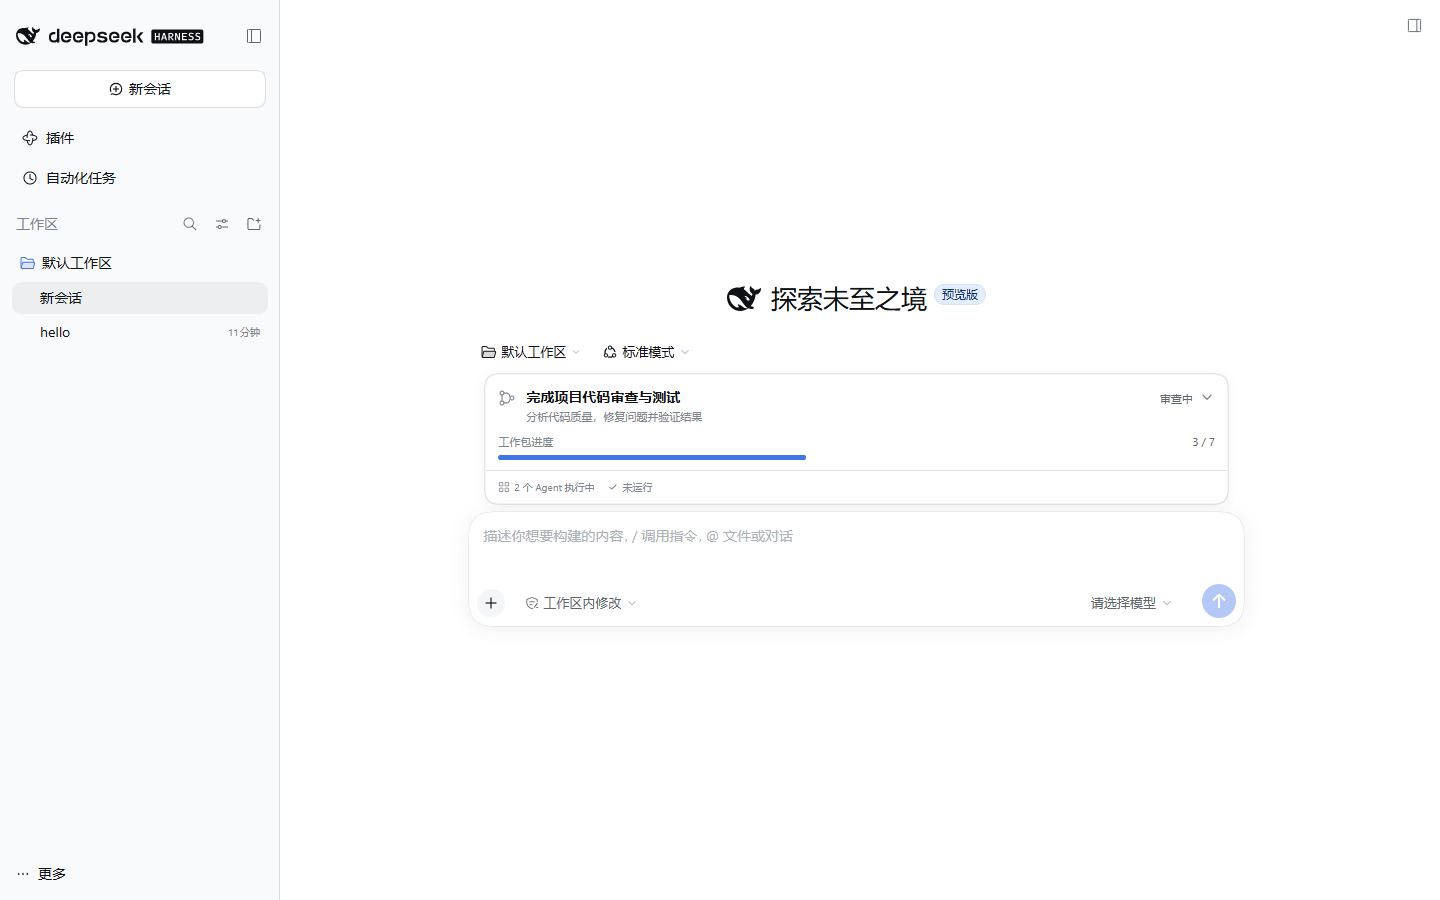
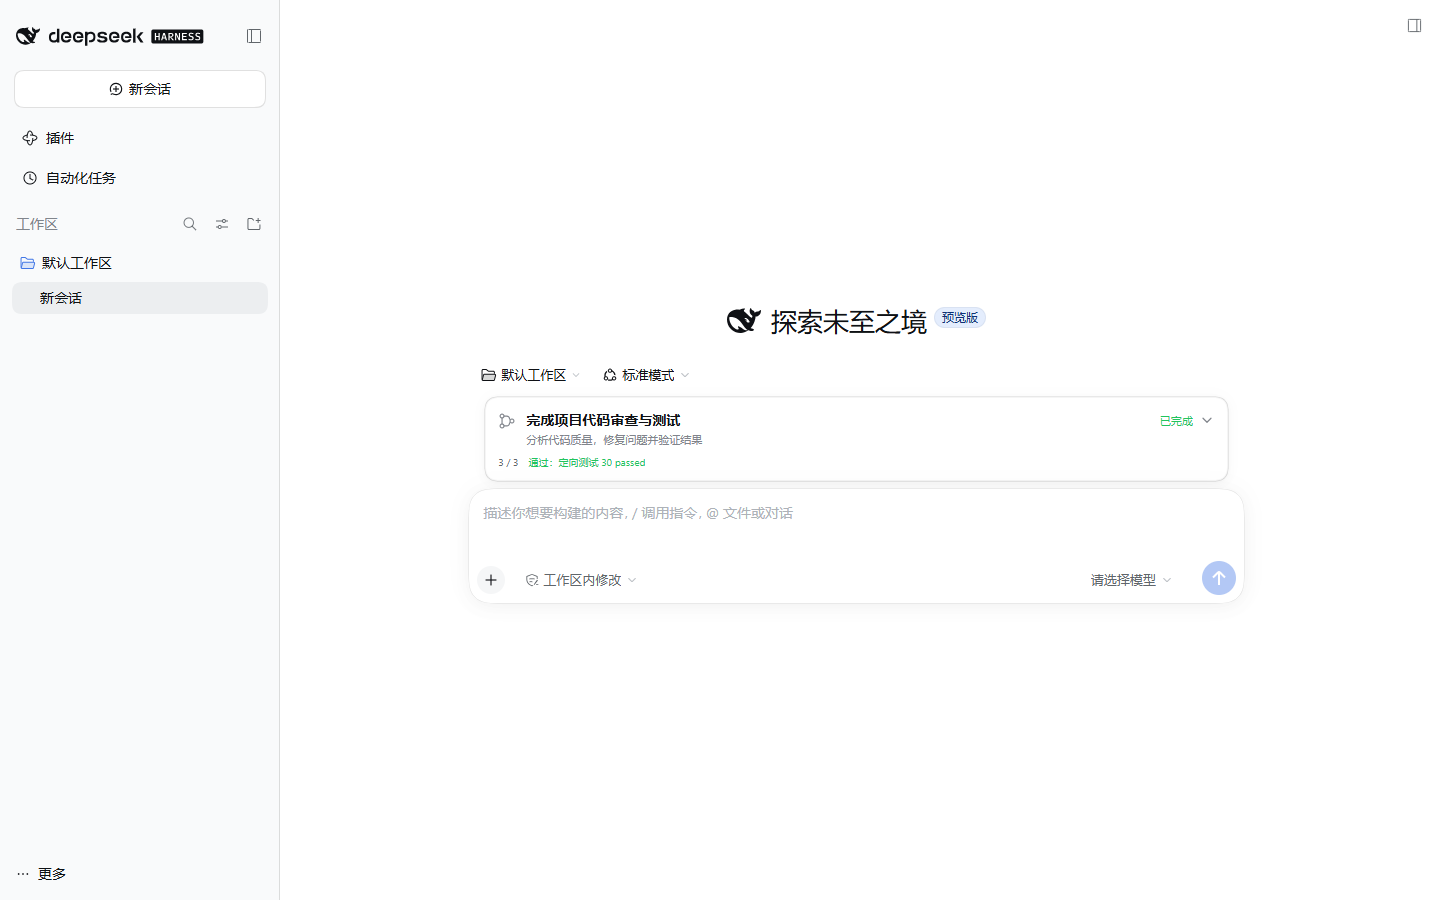
Separate goal, todo, and status card layers

diff --git a/lib/client.js b/lib/client.js
@@ -93,6 +93,10 @@ window.__ModuleLoader__.load({
 .pls-footerItem{display:inline-flex;align-items:center;gap:4px;min-width:0}
 .pls-footerSpacer{flex:1}
 .pls-footerIcon{flex:none;color:var(--dsw-alias-label-tertiary)}
+.pls-card-done .pls-head{padding-bottom:6px}
+.pls-doneLine{display:flex;align-items:center;gap:10px;flex-wrap:wrap;padding:0 12px 10px;color:var(--dsw-alias-label-tertiary);font-size:10px;line-height:16px}
+.pls-doneProgress{color:var(--dsw-alias-label-secondary);font-variant-numeric:tabular-nums}
+.pls-doneBlocked{color:var(--dsw-alias-state-error-primary)}
 .pls-empty{color:var(--dsw-alias-label-tertiary);font-size:10px;line-height:16px;margin:0}
 @media (max-width:720px){.pls-card .pls-summary{display:none}.pls-card .pls-package{padding:7px}}
 .pls-spin{animation:pls-spin .9s linear infinite;transform-origin:center}
@@ -159,6 +163,7 @@ window.__ModuleLoader__.load({
       allowListFailed:
         "Settings saved, but the Subagent allow-list could not be updated; add the route in Subagent settings.",
       statusEyebrow: "PROJECT STATUS",
+      statusOverview: "Project overview",
       statusProgress: "Work package progress",
       statusPackages: "Work packages",
       statusShowAll: "Show all {count}",
@@ -235,6 +240,7 @@ window.__ModuleLoader__.load({
       saved: "已保存。",
       allowListFailed: "设置已保存，但 Subagent 允许列表未能更新；请在 Subagent 设置中添加该路由。",
       statusEyebrow: "项目状态",
+      statusOverview: "执行概览",
       statusProgress: "工作包进度",
       statusPackages: "工作包",
       statusShowAll: "查看全部 {count} 项",
@@ -558,6 +564,7 @@ window.__ModuleLoader__.load({
 
     function StatusDock({ useProjection, t }) {
       const status = useProjection("projectLeadStatus");
+      const goalProjection = useProjection("goal");
       const [expanded, setExpanded] = useState(false);
       const [showAll, setShowAll] = useState(false);
       const [now, setNow] = useState(() => Date.now());
@@ -580,19 +587,46 @@ window.__ModuleLoader__.load({
       const phase = ["planning", "executing", "reviewing", "blocked", "done"].includes(status.phase)
         ? status.phase
         : "planning";
-      const goal = typeof status.goal === "string" && status.goal.trim().length > 0
+      const rawGoal = typeof status.goal === "string" && status.goal.trim().length > 0
         ? status.goal
-        : t("statusEyebrow");
+        : "";
       const summary = typeof status.summary === "string" ? status.summary : "";
+      const nativeGoal = goalProjection?.goal?.phase === "active" ? goalProjection.goal : null;
+      const isDone = phase === "done";
+      const title = nativeGoal
+        ? (summary || t("statusOverview"))
+        : (rawGoal || summary || t("statusOverview"));
+      const subtitle = !nativeGoal && rawGoal && summary ? summary : "";
       const verification = typeof status.verification === "string" ? status.verification : "";
       const next = typeof status.next === "string" ? status.next : "";
       const blockers = typeof status.blockers === "string" ? status.blockers : "";
       const activeAgents = Number.isFinite(status.activeAgents) ? status.activeAgents : 0;
       const shownPackages = showAll ? workPackages : workPackages.slice(0, 3);
-      const updated = updatedLabel(status.updatedAt, now, t);
+      const updated = isDone ? "" : updatedLabel(status.updatedAt, now, t);
+      const showFooterVerification = !expanded && !isDone;
+      const footerItems = [];
+      if (activeAgents > 0) {
+        footerItems.push(h("span", { key: "agents", className: "pls-footerItem pls-footerIcon" }, [
+          h(GridGlyph),
+          t("statusAgents", { count: activeAgents })
+        ]));
+      }
+      if (showFooterVerification) {
+        footerItems.push(h("span", { key: "verification", className: "pls-footerItem pls-footerIcon" }, [
+          h(CheckGlyph),
+          verification || t("statusNotRun")
+        ]));
+      }
+      if (updated) footerItems.push(h("span", { key: "updated", className: "pls-footerItem" }, updated));
+      const footer = footerItems.length > 0
+        ? h("div", { key: "footer", className: "pls-footer" }, [
+          ...footerItems,
+          h("span", { key: "spacer", className: "pls-footerSpacer" })
+        ])
+        : null;
 
       return h("div", { className: "pls-dock", "data-project-status": "" },
-        h("div", { className: "pls-card" }, [
+        h("div", { className: `pls-card${isDone && !expanded ? " pls-card-done" : ""}` }, [
           h("button", {
             key: "head",
             type: "button",
@@ -603,23 +637,29 @@ window.__ModuleLoader__.load({
             h("span", { key: "icon", className: "pls-headIcon" }, h(BranchGlyph)),
             h("span", { key: "copy", className: "pls-headCopy" }, [
               expanded ? h("span", { key: "eyebrow", className: "pls-eyebrow" }, t("statusEyebrow")) : null,
-              h("span", { key: "title", className: "pls-title" }, goal),
-              summary ? h("span", { key: "summary", className: "pls-summary" }, summary) : null
+              h("span", { key: "title", className: "pls-title" }, title),
+              subtitle ? h("span", { key: "summary", className: "pls-summary" }, subtitle) : null
             ]),
             h("span", { key: "meta", className: "pls-headMeta" }, [
               h("span", { key: "phase", className: `pls-phase pls-phase-${phase}` }, phaseLabel(phase, t)),
               h("span", { key: "chevron", className: `pls-chevron${expanded ? " pls-chevron-open" : ""}` }, h(ChevronGlyph))
             ])
           ]),
-          h("div", { key: "progress", className: "pls-progress" }, [
-            h("div", { key: "head", className: "pls-progressHead" }, [
-              h("span", { key: "label" }, t("statusProgress")),
-              h("span", { key: "value", className: "pls-progressValue" }, `${done} / ${total}`)
+          isDone && !expanded
+            ? h("div", { key: "doneLine", className: "pls-doneLine" }, [
+              h("span", { key: "progress", className: "pls-doneProgress" }, `${done} / ${total}`),
+              verification ? h("span", { key: "verification", className: `pls-doneVerification${verificationClass(verification)}` }, verification) : null,
+              blockers ? h("span", { key: "blockers", className: "pls-doneBlocked" }, t("statusBlockers")) : null
+            ])
+            : h("div", { key: "progress", className: "pls-progress" }, [
+              h("div", { key: "head", className: "pls-progressHead" }, [
+                h("span", { key: "label" }, t("statusProgress")),
+                h("span", { key: "value", className: "pls-progressValue" }, `${done} / ${total}`)
+              ]),
+              h("div", { key: "track", className: "pls-progressTrack" },
+                h("div", { className: "pls-progressFill", style: { width: `${percent}%` } })
+              )
             ]),
-            h("div", { key: "track", className: "pls-progressTrack" },
-              h("div", { className: "pls-progressFill", style: { width: `${percent}%` } })
-            )
-          ]),
           expanded ? h("div", { key: "expanded", className: "pls-expanded" }, [
             h("div", { key: "packages", className: "pls-section" }, [
               h("div", { key: "head", className: "pls-sectionHead" }, [
@@ -660,7 +700,7 @@ window.__ModuleLoader__.load({
               h("span", { key: "label", className: "pls-detailLabel" }, t("statusVerification")),
               h("span", { key: "value", className: `pls-detailValue${verificationClass(verification)}` }, verification || t("statusNotRun"))
             ]),
-            next ? h("div", { key: "next", className: "pls-detailRow" }, [
+            next && !isDone ? h("div", { key: "next", className: "pls-detailRow" }, [
               h("span", { key: "label", className: "pls-detailLabel" }, t("statusNext")),
               h("span", { key: "value", className: "pls-detailValue" }, next)
             ]) : null,
@@ -669,18 +709,7 @@ window.__ModuleLoader__.load({
               h("span", { key: "value", className: "pls-detailValue pls-detailValue-error" }, blockers)
             ]) : null
           ]) : null,
-          h("div", { key: "footer", className: "pls-footer" }, [
-            h("span", { key: "agents", className: "pls-footerItem pls-footerIcon" }, [
-              h(GridGlyph),
-              activeAgents > 0 ? t("statusAgents", { count: activeAgents }) : t("statusAgentsNone")
-            ]),
-            h("span", { key: "verification", className: "pls-footerItem pls-footerIcon" }, [
-              h(CheckGlyph),
-              verification || t("statusNotRun")
-            ]),
-            h("span", { key: "spacer", className: "pls-footerSpacer" }),
-            updated ? h("span", { key: "updated", className: "pls-footerItem" }, updated) : null
-          ])
+          footer
         ])
       );
     }

diff --git a/lib/prompts.js b/lib/prompts.js
@@ -149,7 +149,7 @@ function renderRuntime(runtime) {
   const capabilities = runtime ?? {};
   const lines = ["## Runtime"];
   if (capabilities.todo === true) {
-    lines.push("- 用 todo_write 维护工作包、依赖和状态。");
+    lines.push("- todo_write 只写当前 turn 的 2–4 个可执行步骤，每轮重建；不要复制跨轮工作包列表、阶段或验收记录。");
   }
   lines.push("- 用 subagent 派发；它立即返回 child id 并在后台执行，完成通知才携带结果或失败诊断。`started subagent` 不是成功。");
   lines.push("- 目录、未知文件清单或项目 skill 的定位交给 Scout；子 Agent 有 glob/grep/pwsh，主 Agent 的 `read` 只用于已知路径。不要要求用户逐个提供文件名。");
@@ -160,7 +160,7 @@ function renderRuntime(runtime) {
     lines.push("- 当前没有 list_agents/send_message；每个工作包用 subagent 新开，完成即结束。");
   }
   if (capabilities.statusCard === true) {
-    lines.push("- 中间进度只调用 project_status_update 更新输入框上方的状态卡；不要输出 `## PM 状态`、工作包表格或重复汇报。阶段变化或 child 完成时更新一次；首次给完整状态，后续可只传变化字段。最终交付时才发简短总结，详细内容看状态卡。");
+    lines.push("- 中间进度只调用 project_status_update 更新输入框上方的状态卡；不要输出 `## PM 状态`、工作包表格或重复汇报。状态卡负责跨 turn 的工作包/证据/验证/blocker；阶段变化或 child 完成时更新一次；首次给完整状态，后续可只传变化字段。有原生 goal 时不要重复同一句目标；完成后 phase=done、next 留空。最终交付时才发简短总结，详细内容看状态卡。");
   } else {
     lines.push("- 当前没有状态卡工具；状态汇报保持极简，只给结论、证据和下一步，不重复长文。");
   }

diff --git a/lib/index.js b/lib/index.js
@@ -523,11 +523,11 @@ function apply(ctx, config) {
   // ── Collapsible Project Lead status card ─────────────────────────────────
   ctx.tools.register(defineTool({
     name: "project_status_update",
-    description: "Update the Project Lead status card shown above the composer. Call it at phase changes and after each child completion instead of writing a status report in chat. The first call should carry the complete state; later calls may omit unchanged fields. When provided, workPackages replaces the previous list. Do not use this tool to restate the final answer.",
+    description: "Update the Project Lead status card shown above the composer. Use it only at phase/work-package boundaries or after a child completion, instead of writing a status report in chat. This is the cross-turn project layer: work packages, owners, evidence, verification, blockers, and next. Do not copy the current turn's TODO steps here; use todo_write for those. Do not repeat the native goal when it is active. The first call should carry the complete state; later calls may omit unchanged fields. When provided, workPackages replaces the previous list. On completion set phase to done and clear next.",
     parameters: {
       goal: {
         type: "string",
-        description: "The one-sentence project goal shown as the card title."
+        description: "Fallback project title; omit when a native goal is already active."
       },
       summary: {
         type: "string",

diff --git a/test/plugin.test.js b/test/plugin.test.js
@@ -216,6 +216,8 @@ test("compact PM prompt includes the configured project profile and role convent
   assert.match(text, /目录、未知文件清单/);
   assert.match(text, /project_status_update/);
   assert.match(text, /不要在聊天里输出/);
+  assert.match(text, /当前 turn/);
+  assert.match(text, /工作包是跨轮交付单元/);
   assert.match(text, /todo_write/);
   assert.match(text, /model_token_usage/);
   assert.doesNotMatch(text, /run_in_background/);

diff --git a/test/compatibility.test.js b/test/compatibility.test.js
@@ -130,7 +130,7 @@ test("manifest remains a mount-only bundle with optional peers", () => {
 });
 
 test("no 0.1.x compatibility branch is advertised", () => {
-  assert.equal(manifest.version, "0.6.0");
+  assert.equal(manifest.version, "0.6.1");
   assert.doesNotMatch(
     JSON.stringify(manifest.peerDependencies),
     /0\.1\./

diff --git a/prompts/05-status-budget-handoff.md b/prompts/05-status-budget-handoff.md
@@ -2,6 +2,14 @@
 
 你现在负责 PM 的运行控制面：让主 Agent 和用户始终知道目标、进度、预算、风险和下一步，并在需要时安全停止或交接。
 
+## 三层分工
+
+- **原生 Goal**：目标、生命周期和用户控制；有原生 Goal 时，状态卡不重复同一句目标。
+- **原生任务卡（todo_write）**：只写当前 turn 的 2–4 个可执行步骤；每轮重建，不写项目工作包列表或阶段。
+- **项目状态卡（project_status_update）**：跨 turn 的项目层，包括工作包、child/owner、证据、验证、blocker 和 next；只在阶段变化、工作包变化或 child 完成时更新。
+
+工作包是跨轮交付单元，不是本轮琐碎步骤；不要把工作包标题复制进 todo，也不要把 todo 步骤塞进 workPackages。
+
 ## 状态卡
 
 中间状态只更新输入框上方的 `project_status_update` 卡片；**不要**在聊天里写 `## PM 状态`、工作包表格或长篇汇报。
@@ -26,7 +34,9 @@ project_status_update({
 - 第一次给完整状态；后续只传变化字段。
 - 阶段变化或子 Agent 完成时更新一次；不要每收到一条消息就重写整张卡。
 - 工作包列表变化时传 `workPackages`；未变化可省略。
+- 有原生 Goal 时不要重复传同一句 `goal`；`goal` 只作为没有原生 Goal 时的回退标题。
 - 详细证据、完整日志、完整 diff 留在工作区或子 Agent 报告，不粘回主上下文。
+- 完成后传 `phase: "done"` 并把 `next` 留空；UI 会把完成态压缩成一行，不需要再反复更新。
 - 只有最终交付、blocker、需要用户决定时才发普通助手消息；最终总结保持简短。
 
 ## 状态节奏

diff --git a/README.md b/README.md
@@ -137,6 +137,14 @@ Intermediate progress is not repeated as chat prose. The PM calls
 - the prompt tells the PM not to write `## PM Status`, work-package tables, or
   repeated reports; the final answer remains a short delivery summary.
 
+The three status surfaces have separate scopes: the native Goal owns the
+objective and lifecycle, the native task card owns the current turn's
+executable steps, and this card owns cross-turn work packages, verification,
+blockers, and next. When a native Goal is active, the card's title becomes the
+current focus instead of repeating the goal. On completion the collapsed card
+reduces to one compact line, and verification is shown once in the expanded
+view.
+
 The update tool still costs a small tool call; the savings come from replacing
 long, repeated status messages with compact structured updates rendered by the
 UI. If the tool is not visible, the prompt falls back to a minimal status report.

diff --git a/README.zh.md b/README.zh.md
@@ -120,6 +120,10 @@ ROLE: scout
 - 提示词要求 PM 不再输出 `## PM 状态`、工作包表格或重复汇报；最终回复只保留简短
   交付摘要。
 
+三个状态面分工：原生 Goal 负责目标与生命周期，原生任务卡负责当前 turn 的可执行步骤，
+项目状态卡负责跨 turn 的工作包、验证、blocker 和下一步。有原生 Goal 时，状态卡标题
+显示当前焦点，不重复目标；完成后收起态压缩成一行，验证结果只在展开区出现一次。
+
 工具调用本身仍会消耗少量 token；节省来自把反复出现的状态长文换成紧凑的结构化
 更新，由 UI 展示细节。如果工具不可见，提示词会回退到极简状态文字。
 
